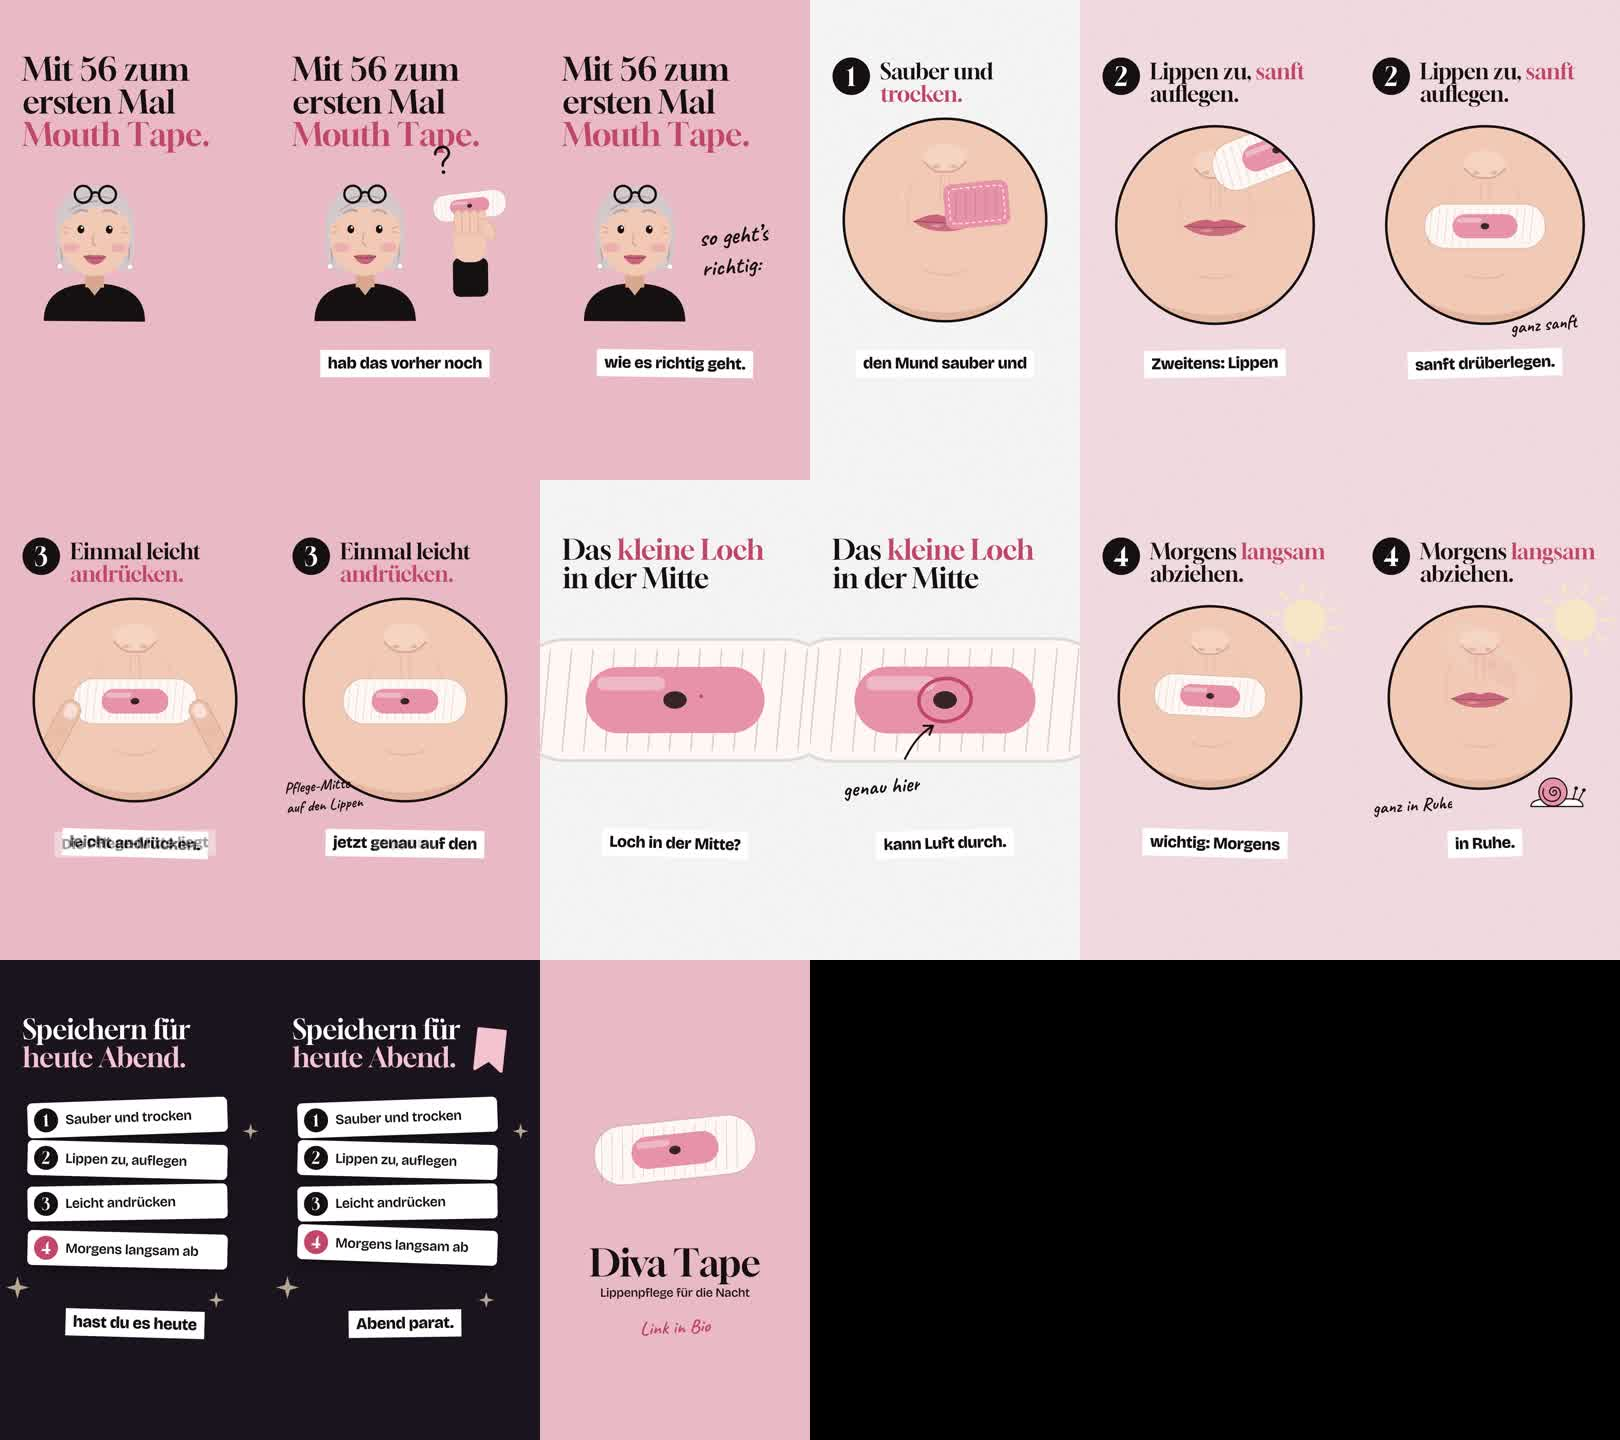
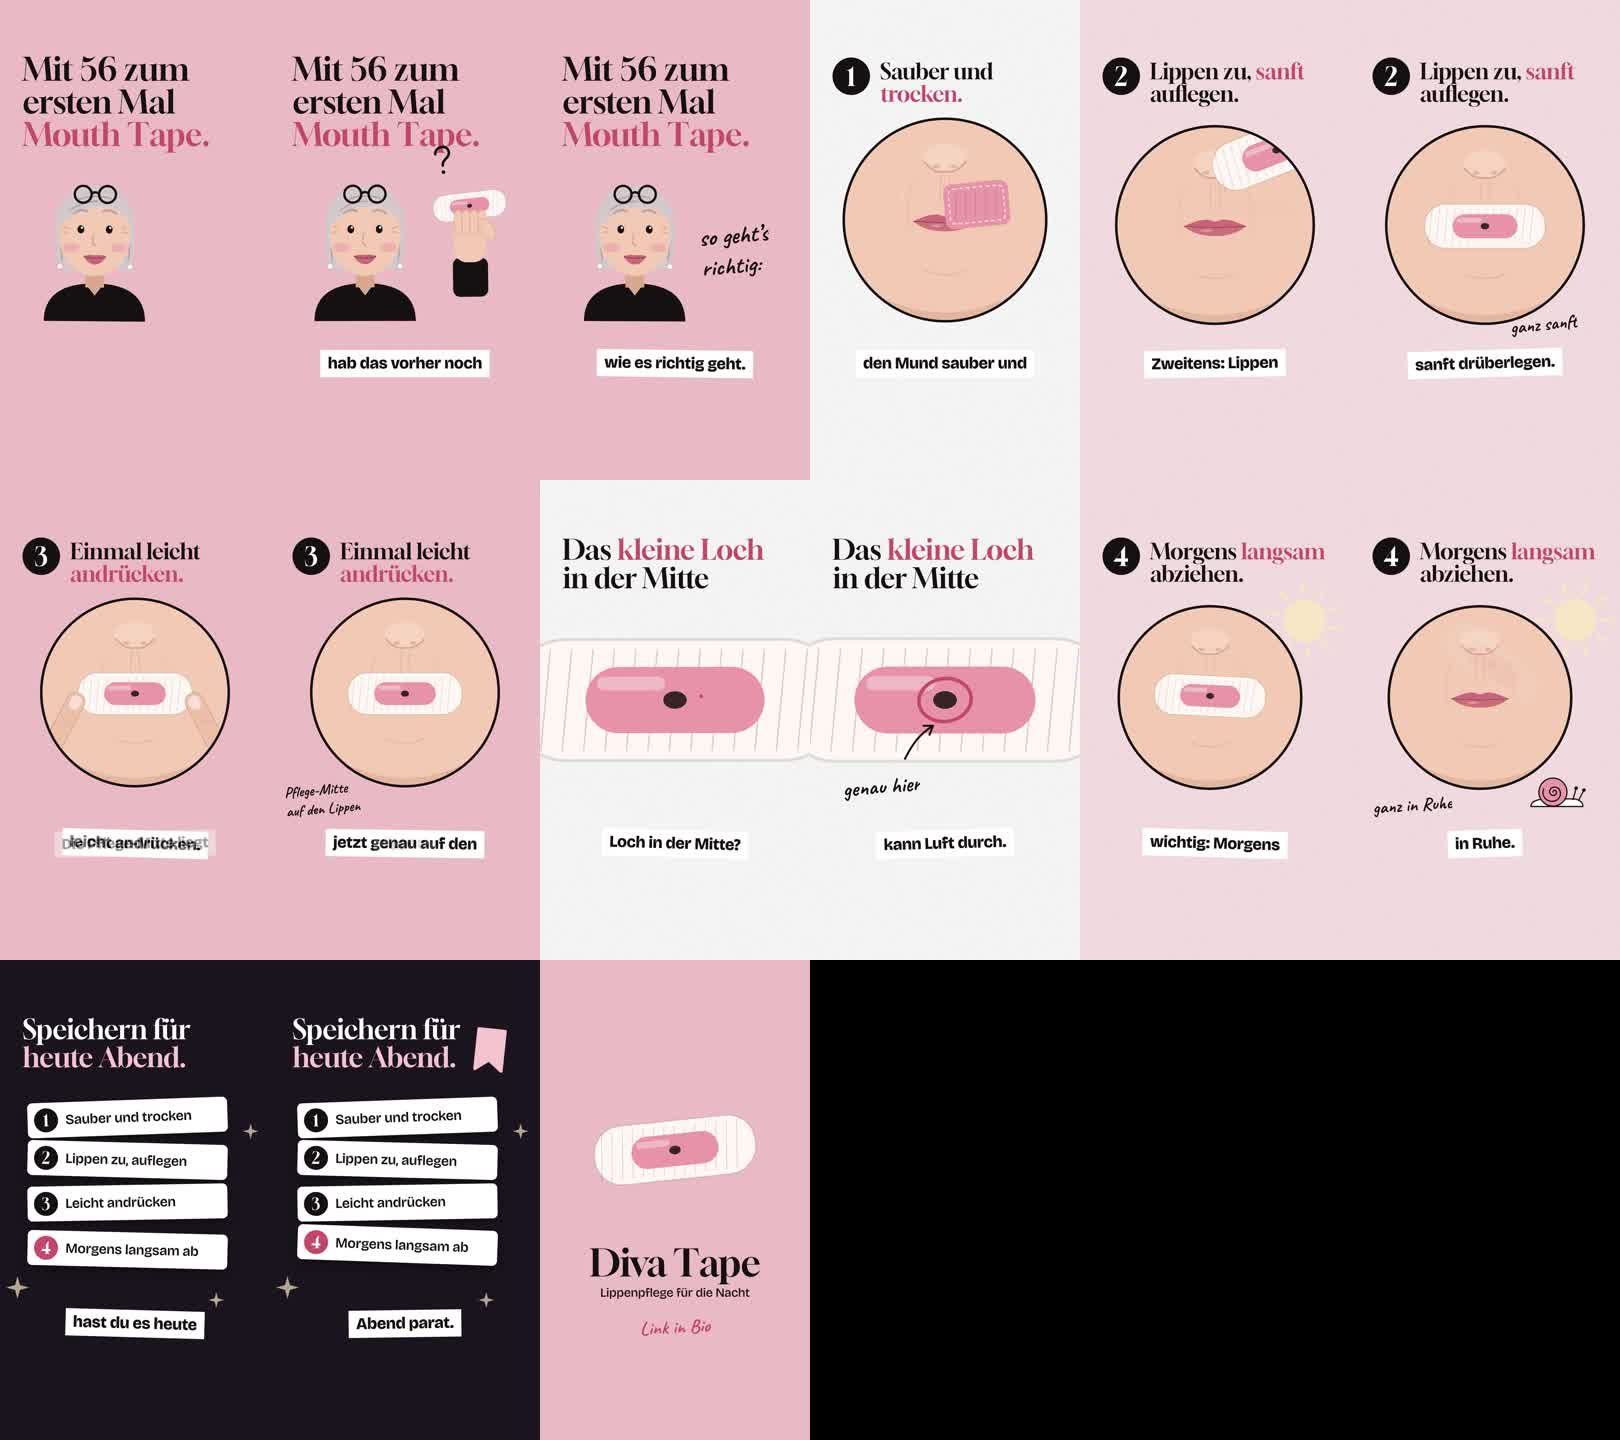
Organic Reels: Zwischenstand laufender Videos (KI)
Claude-Session: https://claude.ai/code/session_019QtFuCNujcoErdQoWV4u5k

Changed region(s): [[0.1852, 0.4375, 0.3086, 0.5625], [0.0, 0.4375, 0.1543, 0.5625], [0.0309, 0.4062, 0.0617, 0.4375]]

diff --git a/organic/videos/OV06/scene.js b/organic/videos/OV06/scene.js
@@ -158,8 +158,8 @@ SCENES.s3 = { bg: C.rosaHell, build(root, ctx) {
 SCENES.s4 = { bg: C.rosa, build(root, ctx) {
   const D = ctx.dur;
   const head = stepHead(root, 3, 'Einmal leicht *andrücken.*');
-  const L = lens(root, 540, 880, 820);
-  const n = note(root, 'Pflege-Mitte\nauf den Lippen', { x: 60, y: 1180, r: -5, size: 62, t0: D * .6 });
+  const L = lens(root, 540, 850, 760);
+  const n = note(root, 'Pflege-Mitte\nauf den Lippen', { x: 60, y: 1200, r: -5, size: 60, t0: D * .6 });
   return (t) => {
     head.update(t);
     const inK = pr(t, D * .1, D * .3, ease.outCubic), outK = pr(t, D * .5, D * .62, ease.inCubic);
